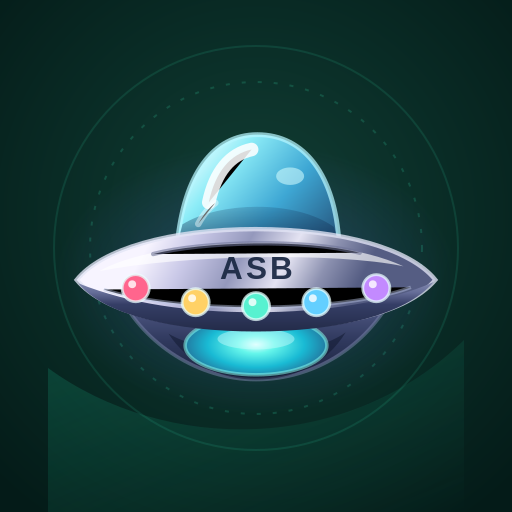
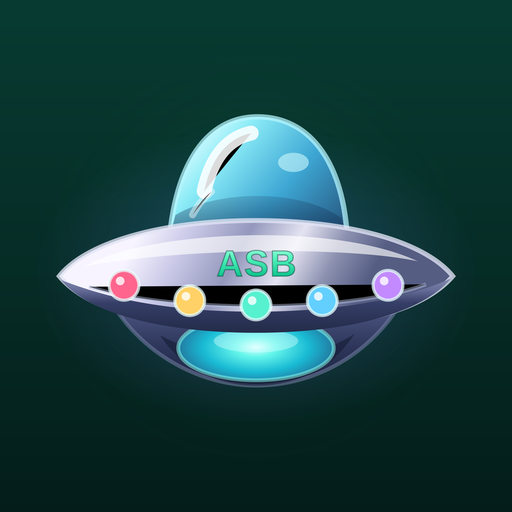
Add files via upload

diff --git a/webroot/index.html b/webroot/index.html
@@ -6402,6 +6402,9 @@ html:root .cfg-profile-sheet.live-info-sheet .live-drain-done { margin-top:16px;
     <linearGradient id="asbUfoHull" x1="25" y1="29" x2="66" y2="51" gradientUnits="userSpaceOnUse">
       <stop stop-color="#F7F4FF"/><stop offset=".20" stop-color="#C9C8E7"/><stop offset=".43" stop-color="#9498BC"/><stop offset=".64" stop-color="#E4E3F2"/><stop offset=".82" stop-color="#8C91B0"/><stop offset="1" stop-color="#555D83"/>
     </linearGradient>
+    <linearGradient id="asbUfoWordmark" x1="48" y1="33" x2="48" y2="41" gradientUnits="userSpaceOnUse">
+      <stop stop-color="#C8FFF0"/><stop offset=".42" stop-color="#54F5BE"/><stop offset="1" stop-color="#00B982"/>
+    </linearGradient>
     <linearGradient id="asbUfoRim" x1="48" y1="37" x2="48" y2="53" gradientUnits="userSpaceOnUse">
       <stop stop-color="#AEB4D2"/><stop offset=".38" stop-color="#656D98"/><stop offset=".55" stop-color="#353E66"/><stop offset="1" stop-color="#202844"/>
     </linearGradient>
@@ -6426,8 +6429,7 @@ html:root .cfg-profile-sheet.live-info-sheet .live-drain-done { margin-top:16px;
       <path d="M12.2 38.2C24.6 30.9 63.5 28.6 81.7 37.1C66.3 33.8 30.7 34.5 12.2 38.2Z" fill="white" fill-opacity=".64"/>
       <path d="M7.4 41C19.4 45.7 32.4 47.6 48 47.6C64 47.6 78.5 45.2 88.6 40.7C82.2 48.3 66.1 52 48 52C29.5 52 13.4 48.3 7.4 41Z" fill="url(#asbUfoRim)"/>
       <path d="M13.2 42.4C29.6 47.8 67.3 48 83.4 41.9" stroke="#B9C4E2" stroke-opacity=".45" stroke-width=".8"/>
-      <path d="M24.5 34.3C35.5 31.4 59.4 30.8 71.7 34" stroke="#6D7297" stroke-opacity=".58" stroke-width="1" stroke-linecap="round"/>
-      <text x="48" y="40.1" text-anchor="middle" fill="#182642" fill-opacity=".92" font-family="Arial,Helvetica,sans-serif" font-size="7.2" font-weight="900" letter-spacing=".65">ASB</text>
+      <text x="48" y="40.2" text-anchor="middle" fill="url(#asbUfoWordmark)" stroke="#073D35" stroke-opacity=".46" stroke-width=".24" paint-order="stroke fill" font-family="Arial,Helvetica,sans-serif" font-size="7.6" font-weight="800" letter-spacing=".3">ASB</text>
       <g stroke="#E9FFFF" stroke-opacity=".72" stroke-width=".65">
         <circle cx="20.5" cy="42.1" r="3.1" fill="#FF658D"/><circle cx="34.2" cy="45.3" r="3.1" fill="#FFD166"/>
         <circle cx="48" cy="46.2" r="3.1" fill="#57F1D0"/><circle cx="61.8" cy="45.3" r="3.1" fill="#63CFFF"/><circle cx="75.5" cy="42.1" r="3.1" fill="#C38AFF"/>
